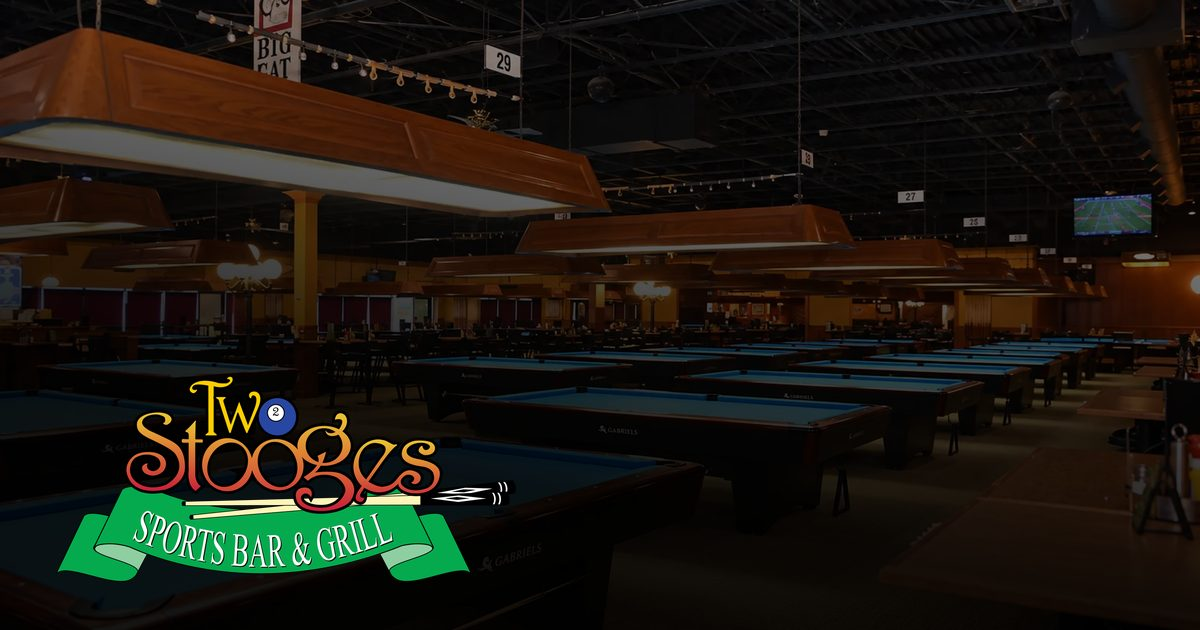
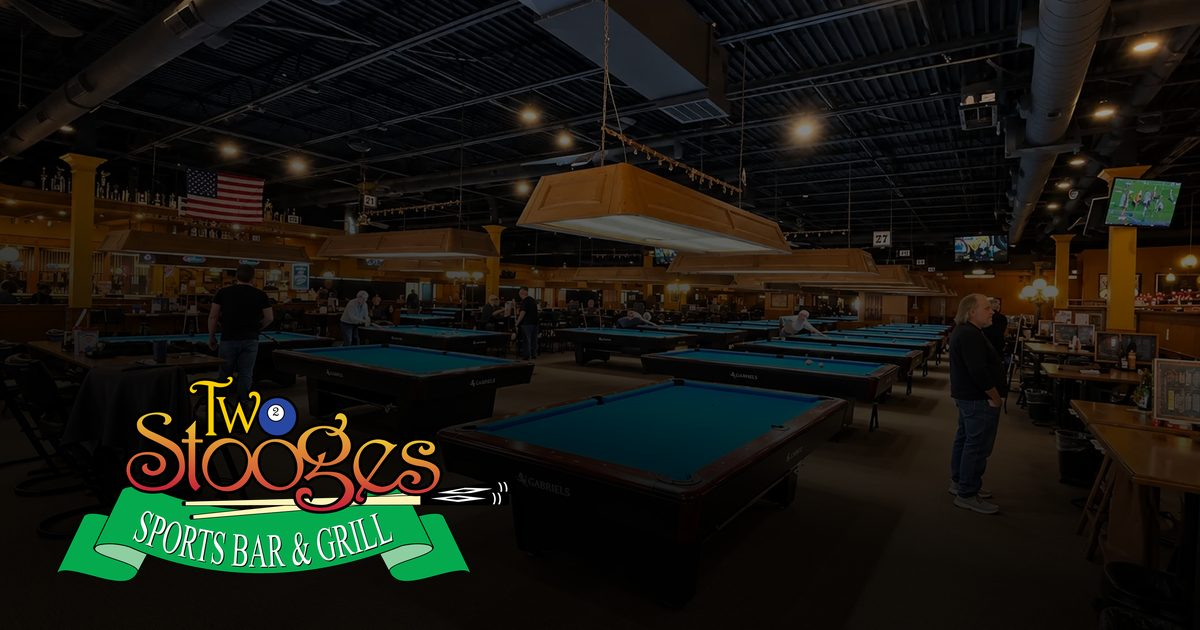
Billiards: new hero + share image, new Pro Shop photo
Claude-Session: https://claude.ai/code/session_01KvRdcF2xCjkhLCUnkz4Zhy

diff --git a/billiards/index.html b/billiards/index.html
@@ -74,7 +74,7 @@
 </header>
 <main id="main">
 <section class="page-hero on-dark">
-  <div class="page-hero__media"><img src="/assets/img/photos/billiard-hall-tables.webp" srcset="/assets/img/photos/billiard-hall-tables-sm.webp 800w, /assets/img/photos/billiard-hall-tables.webp 1535w" sizes="100vw" width="1535" height="1025" alt="The Two Stooges billiard hall with rows of blue-felt pool tables" fetchpriority="high"></div>
+  <div class="page-hero__media"><img src="/assets/img/photos/billiard-room-gabriels-wide.webp" srcset="/assets/img/photos/billiard-room-gabriels-wide-sm.webp 800w, /assets/img/photos/billiard-room-gabriels-wide.webp 1448w" sizes="100vw" width="1448" height="814" alt="The Two Stooges billiard room in Fridley: rows of blue-felt Gabriel&#x27;s pool tables under wood-trimmed lights, with players at the tables" fetchpriority="high"></div>
   <div class="wrap">
     <nav class="crumbs" aria-label="Breadcrumb"><ol><li><a href="/">Home</a></li><li aria-current="page">Billiards</li></ol></nav>
     <span class="eyebrow">43 tables · since 1988</span>
@@ -125,7 +125,7 @@
 </div></section>
 <section class="section section--alt" id="pro-shop"><div class="wrap">
   <div class="split split--rev">
-    <div class="split__media"><img src="/assets/img/photos/pro-shop-cues-and-stuff.webp" srcset="/assets/img/photos/pro-shop-cues-and-stuff-sm.webp 600w, /assets/img/photos/pro-shop-cues-and-stuff.webp 720w" sizes="(max-width:860px) 100vw, 50vw" width="720" height="482" alt="The Two Stooges Pro Shop counter: racks of pool cues under a lit Cues &amp; Stuff sign, with chalk, gloves and accessories in glass cases and apparel on the wall" loading="lazy" decoding="async"><div class="split__badge">Cues &amp; Stuff<small>Pro Shop · cue repair</small></div></div>
+    <div class="split__media"><img src="/assets/img/photos/pro-shop-counter-cue-wall.webp" srcset="/assets/img/photos/pro-shop-counter-cue-wall-sm.webp 800w, /assets/img/photos/pro-shop-counter-cue-wall.webp 1200w" sizes="(max-width:860px) 100vw, 50vw" width="1200" height="900" alt="The Two Stooges Pro Shop: glass display cases of cue accessories, a wall of pool cues and cue cases, and the billiard counter, with the pool tables beyond" loading="lazy" decoding="async"><div class="split__badge">Cues &amp; Stuff<small>Pro Shop · cue repair</small></div></div>
     <div>
       <span class="eyebrow">Pro Shop</span>
       <h2>Two Stooges Pro Shop <span class="grad-text">&amp; cue repair</span></h2>

diff --git a/_src/build.py b/_src/build.py
@@ -362,7 +362,7 @@ META = {
                  "photos/beers-on-bar", "Ice-cold pints on the bar, happy hour at Two Stooges", "Specials & Happy Hour"),
     "billiards": ("/billiards/", "Pool Tables & Billiards in Fridley, MN | Two Stooges",
                   "Play pool at Two Stooges Sports Bar in Fridley, MN: 43 Gabriel's and Diamond tables, daily pool specials, leagues, tournaments and a Pro Shop. Rack up today.",
-                  "photos/billiard-hall-tables", "The 43-table billiard room at Two Stooges Sports Bar in Fridley", "Billiards"),
+                  "photos/billiard-room-gabriels-wide", "The 43-table billiard room at Two Stooges Sports Bar in Fridley", "Billiards"),
     "darts": ("/darts/", "Darts & Dart Leagues in Fridley, MN | Two Stooges",
               "Throw darts at Two Stooges Sports Bar in Fridley, MN. Electronic dart boards, high-tops, a big screen and dart leagues every day of the week. Sign up today.",
               "photos/dart-room", "Electronic dart boards at Two Stooges Sports Bar in Fridley", "Darts"),
@@ -1310,7 +1310,7 @@ def p_billiards():
     g = "".join(f'<figure class="gallery__item"><button type="button" data-lightbox="/assets/img/{p}.webp" data-alt="{e(a)}" data-caption="{e(a)}" aria-label="Enlarge photo: {e(a)}">{img(p, a, sizes="(max-width:640px) 100vw, 33vw")}</button></figure>' for p, a in gallery)
     body = f'''{page_hero("billiards", "43 tables · since 1988", "Billiards at Two Stooges Sports Bar in <span class='grad-text'>Fridley</span>",
         "Two Stooges has been named a top ten billiard room in North America, and City Pages voted it the best place to shoot pool. There are 43 Gabriel's and Diamond tables in 9 ft and 7 ft, with room to play around every one.",
-        "photos/billiard-hall-tables", "The Two Stooges billiard hall with rows of blue-felt pool tables", btn("Daily Pool Specials", "#rates", "gold") + btn("Join a Pool League", "/leagues/", "outline"))}
+        "photos/billiard-room-gabriels-wide", "The Two Stooges billiard room in Fridley: rows of blue-felt Gabriel's pool tables under wood-trimmed lights, with players at the tables", btn("Daily Pool Specials", "#rates", "gold") + btn("Join a Pool League", "/leagues/", "outline"))}
 <section class="section"><div class="wrap">
   {section_head("The billiard room", "Fridley's award-winning pool hall", f"Pool has been the heart of Two Stooges since 1988, when it opened as University Billiards. {L('/about/', 'Read the full story')}.")}
   <div class="grid grid--3">
@@ -1352,7 +1352,7 @@ def p_billiards():
 </div></section>
 <section class="section section--alt" id="pro-shop"><div class="wrap">
   <div class="split split--rev">
-    <div class="split__media">{img("photos/pro-shop-cues-and-stuff", "The Two Stooges Pro Shop counter: racks of pool cues under a lit Cues & Stuff sign, with chalk, gloves and accessories in glass cases and apparel on the wall", sizes="(max-width:860px) 100vw, 50vw")}<div class="split__badge">Cues &amp; Stuff<small>Pro Shop · cue repair</small></div></div>
+    <div class="split__media">{img("photos/pro-shop-counter-cue-wall", "The Two Stooges Pro Shop: glass display cases of cue accessories, a wall of pool cues and cue cases, and the billiard counter, with the pool tables beyond", sizes="(max-width:860px) 100vw, 50vw")}<div class="split__badge">Cues &amp; Stuff<small>Pro Shop · cue repair</small></div></div>
     <div>
       <span class="eyebrow">Pro Shop</span>
       <h2>Two Stooges Pro Shop <span class="grad-text">&amp; cue repair</span></h2>
